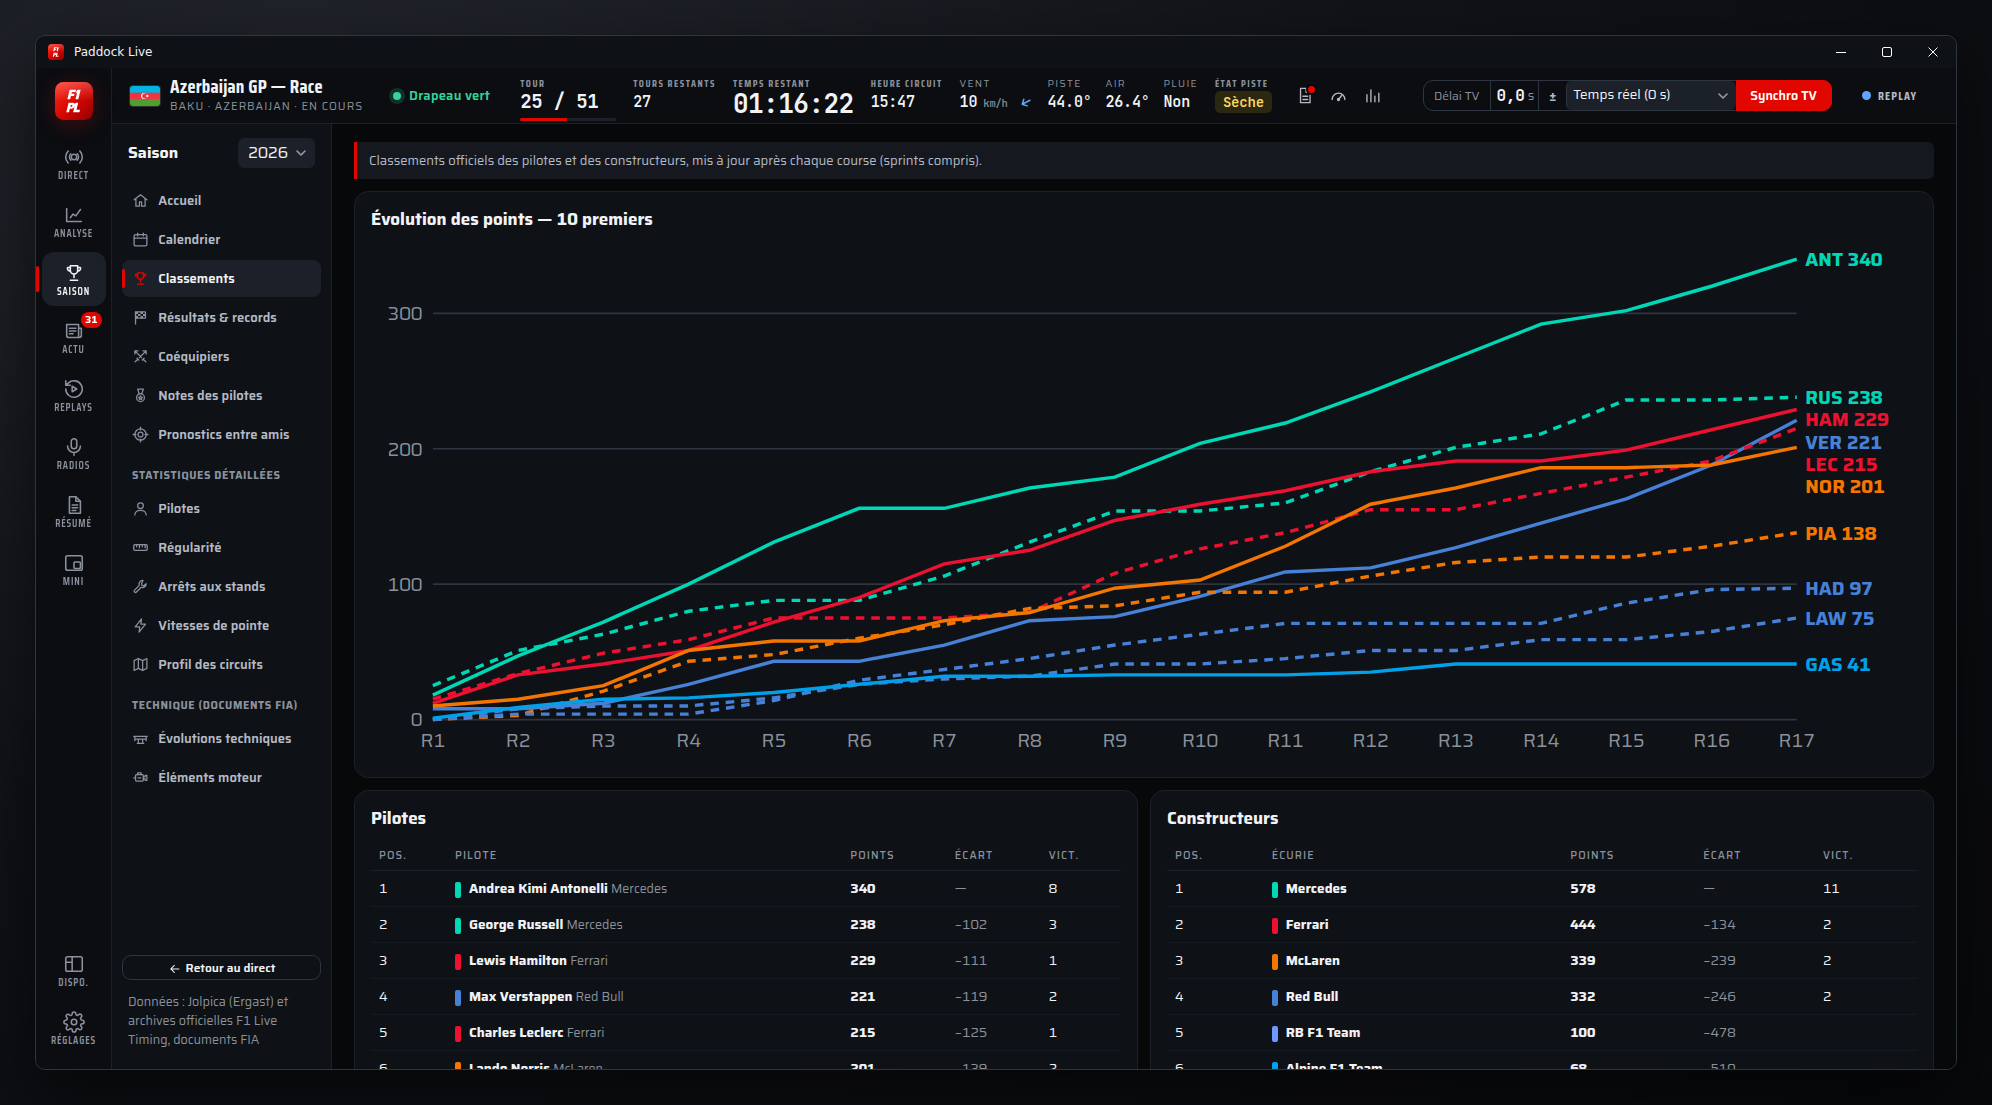
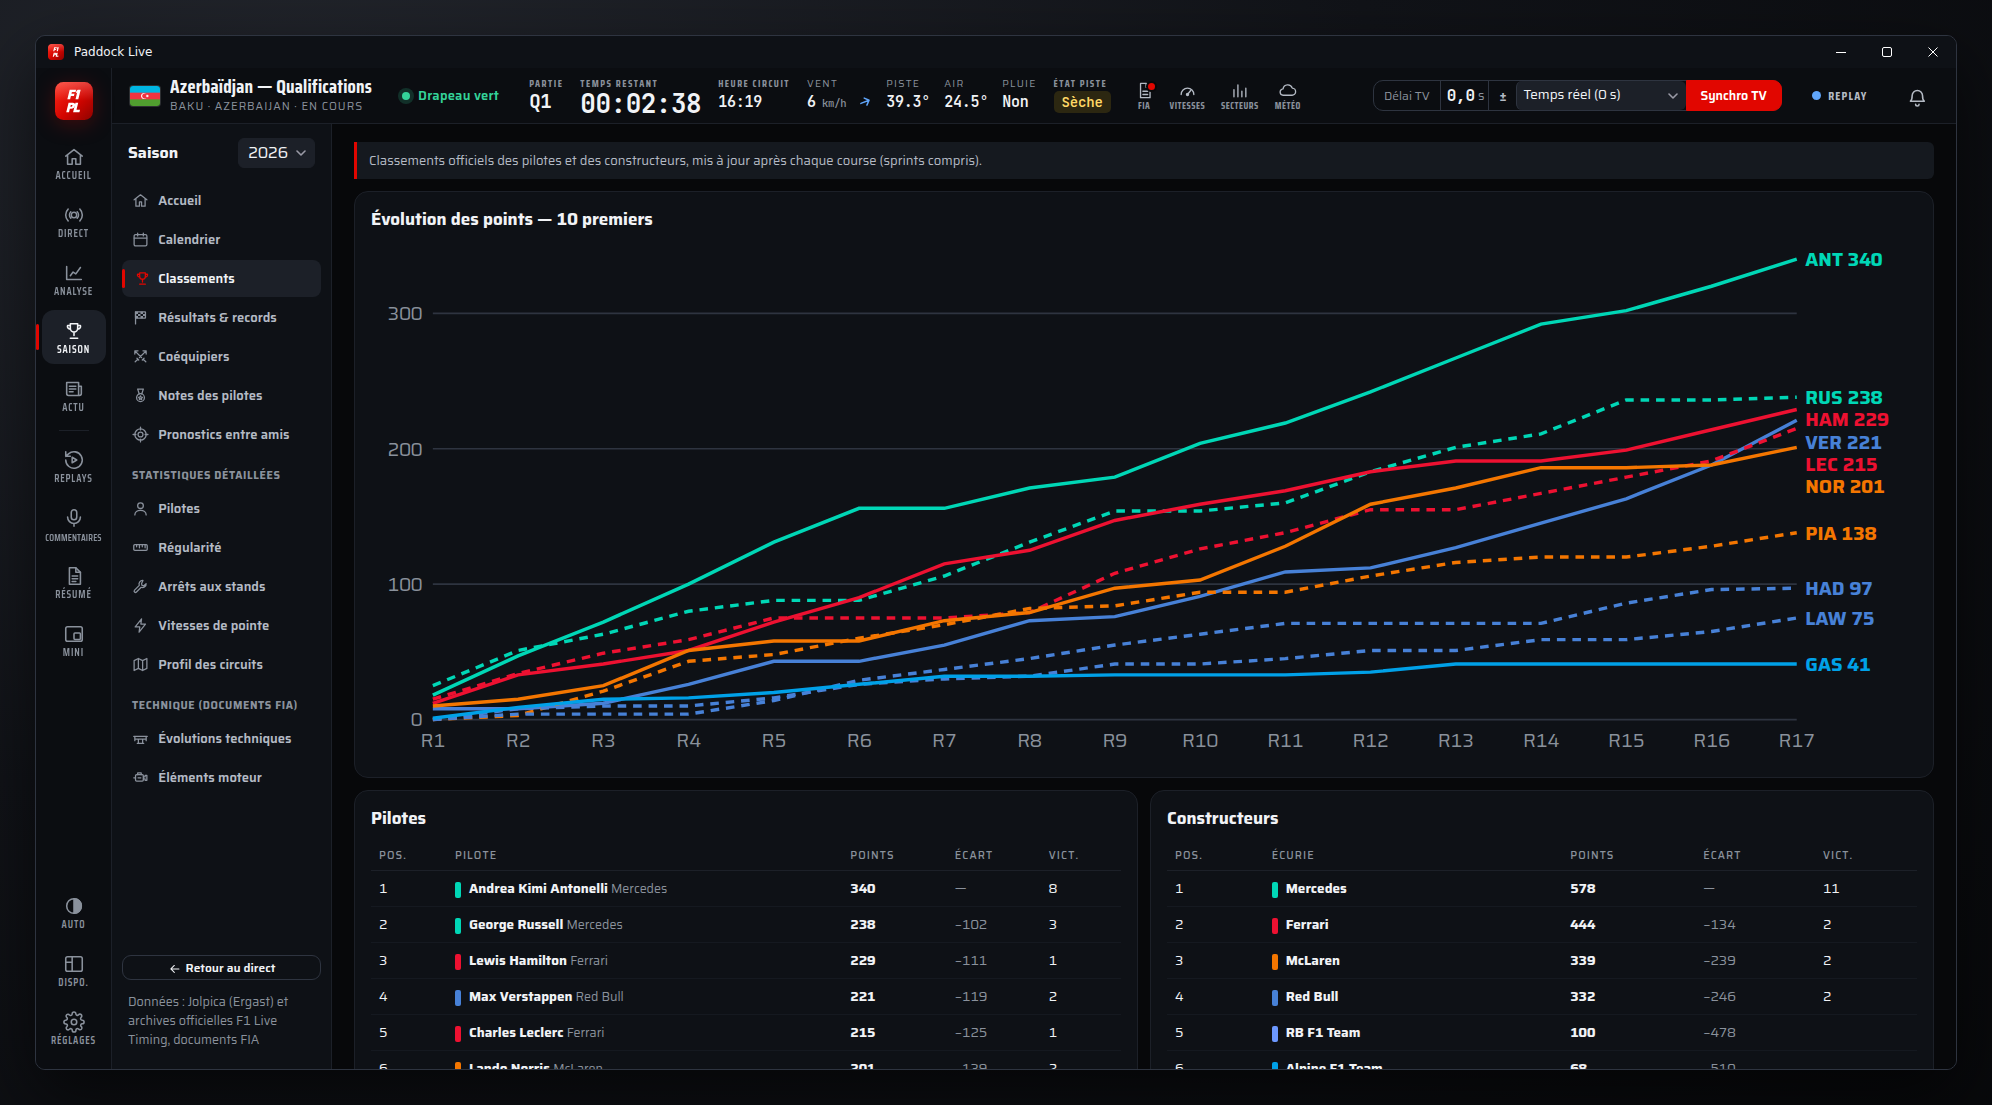
README : captures mises à jour (interface v1.27.29, qualifications de Bakou 2026)
La race trace, réservée aux courses, est remplacée par la comparaison de deux tours.

Claude-Session: https://claude.ai/code/session_01WgEz3ZSgjwLPy4E2f6uwb7

diff --git a/README.md b/README.md
@@ -4,7 +4,7 @@
 
 Dashboard **Formule 1 en direct** pour suivre chaque Grand Prix sur votre ordinateur, **calé sur le délai de votre diffusion TV** (chaîne TV, box, appli de streaming…). Windows, macOS et Linux.
 
-![Paddock Live pendant une course (replay du Grand Prix d'Azerbaïdjan 2026)](docs/screenshots/tableau-de-bord.png)
+![Paddock Live pendant une séance (replay des qualifications du Grand Prix d'Azerbaïdjan 2026)](docs/screenshots/tableau-de-bord.png)
 
 <sub>Design « Pitwall » en mode sombre. L'application suit par défaut le mode clair ou sombre de l'ordinateur ou du téléphone (voir plus bas).</sub>
 
@@ -37,7 +37,7 @@ Dashboard **Formule 1 en direct** pour suivre chaque Grand Prix sur votre ordina
 | ![Saison : fiche pilote](docs/screenshots/saison-pilote.png) | ![Saison : évolutions techniques](docs/screenshots/saison-evolutions-techniques.png) |
 | ![Replay : moments clés](docs/screenshots/moments.png) | ![Résumé automatique de la séance](docs/screenshots/resume.png) |
 | ![Météo : radar de la pluie autour du circuit](docs/screenshots/radar.png) | ![Saison : pronostics entre amis](docs/screenshots/pronostics.png) |
-| ![Radios d'équipe retranscrites et traduites](docs/screenshots/radios.png) | ![Analyse : race trace](docs/screenshots/analyse-race-trace.png) |
+| ![Radios d'équipe retranscrites et traduites](docs/screenshots/radios.png) | ![Analyse : comparaison de deux tours, secteur par secteur](docs/screenshots/analyse-comparaison.png) |
 
 <img src="docs/screenshots/mini-classement.png" alt="Mini-classement flottant, toujours au premier plan" width="380" align="right">
 
